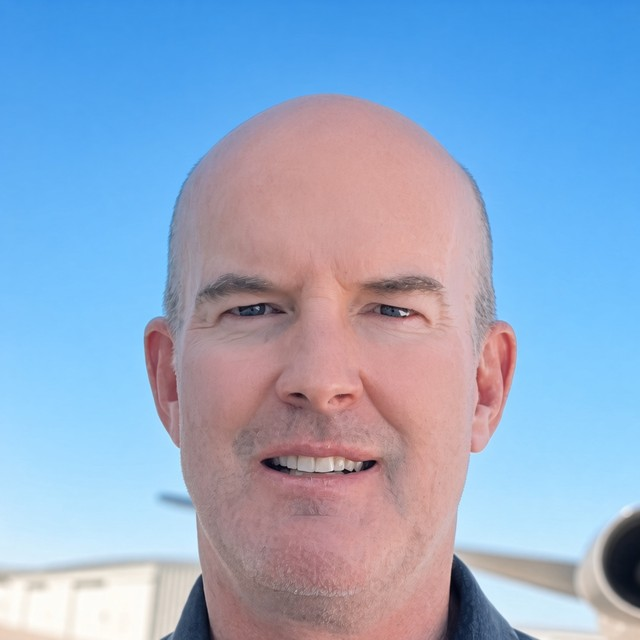
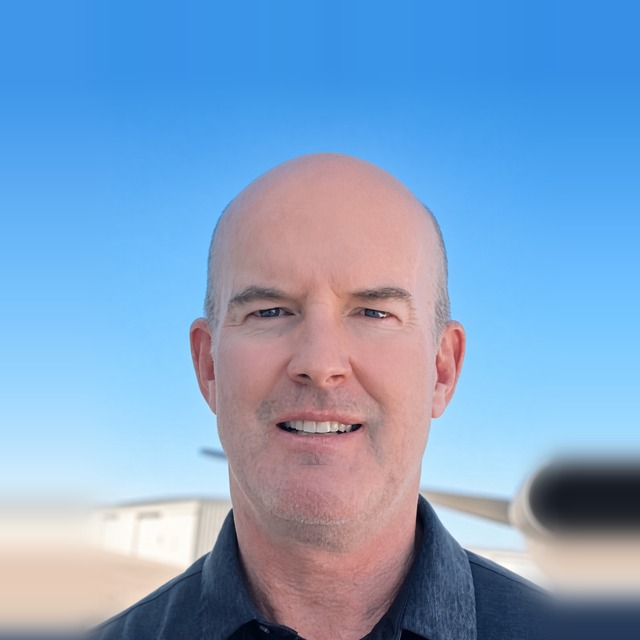
mathiesen added
mathiesen add

diff --git a/styles.css b/styles.css
@@ -875,6 +875,22 @@ section { padding: 88px 0; }
 .team-strip-photo img[src*="shawn-walters"] { transform: translateY(-2.25%) scale(1.05); filter: brightness(0.93) contrast(1.04); }
 .team-photo img[src*="tim-perkins"],
 .team-strip-photo img[src*="tim-perkins"] { transform: translateY(-2.36%) scale(1.05); filter: brightness(0.92) contrast(1.04); }
+/* Josh Mathiesen, added Sept 2026: same linear-light-luminance / mean-HSL-
+   saturation measurement as the Aug 2026 review above, run against the
+   twelve delivered photos (the eleven above with their shipped filters
+   applied, plus Josh's raw file). His source photo (vivid blue-sky hangar
+   backdrop) measured 39.2 luminance / 62.8% saturation — brighter than any
+   other photo on the page (group delivered range 19.9-36.6, median 30.5)
+   and more than double the most saturated one (group range 15.6-30.8,
+   median 26.8). No other bio photo needed correction on both axes at once,
+   so unlike the single-axis rules above this one chains saturate() before
+   brightness()/contrast(). saturate(0.46) brings saturation to ~25%, in
+   line with the group; brightness(0.945)/contrast(1.03) on top of that
+   eases luminance ~60% of the way to the group median (33.8), the same
+   damping ratio used for the brightness outliers above rather than
+   snapping fully to it. Delete this rule to restore the photo as shot. */
+.team-photo img[src*="josh-mathiesen"],
+.team-strip-photo img[src*="josh-mathiesen"] { filter: saturate(0.46) brightness(0.945) contrast(1.03); }
 .team-body { padding: 22px 24px 26px; }
 .team-body h3 { margin-bottom: 2px; font-size: 1.08rem; }
 .team-role {
